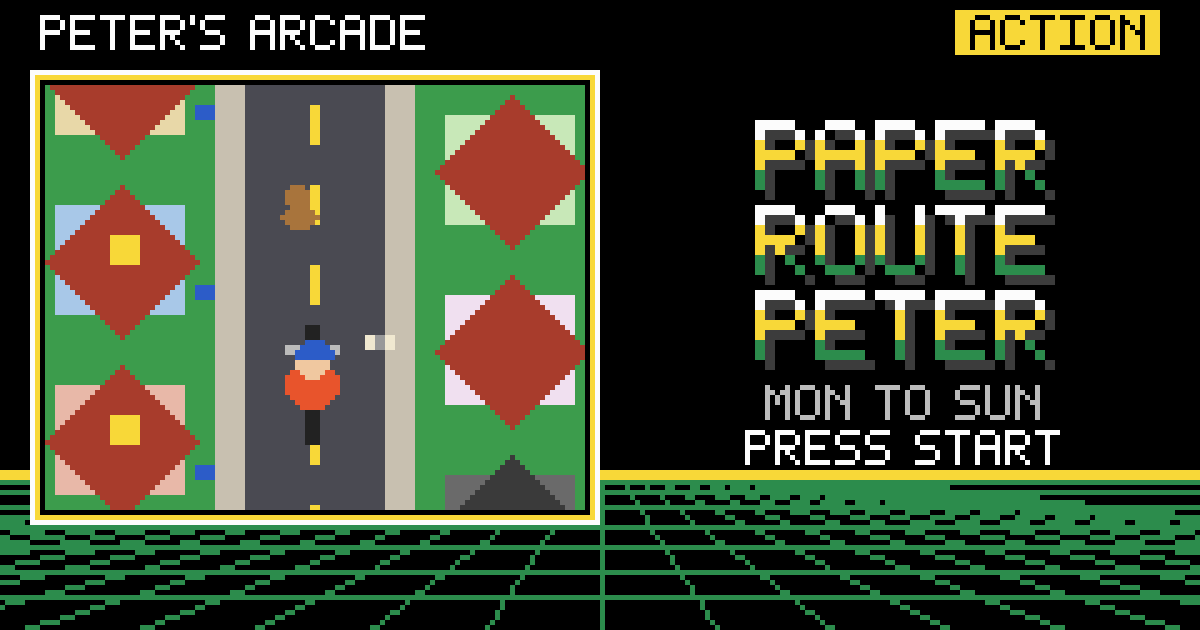
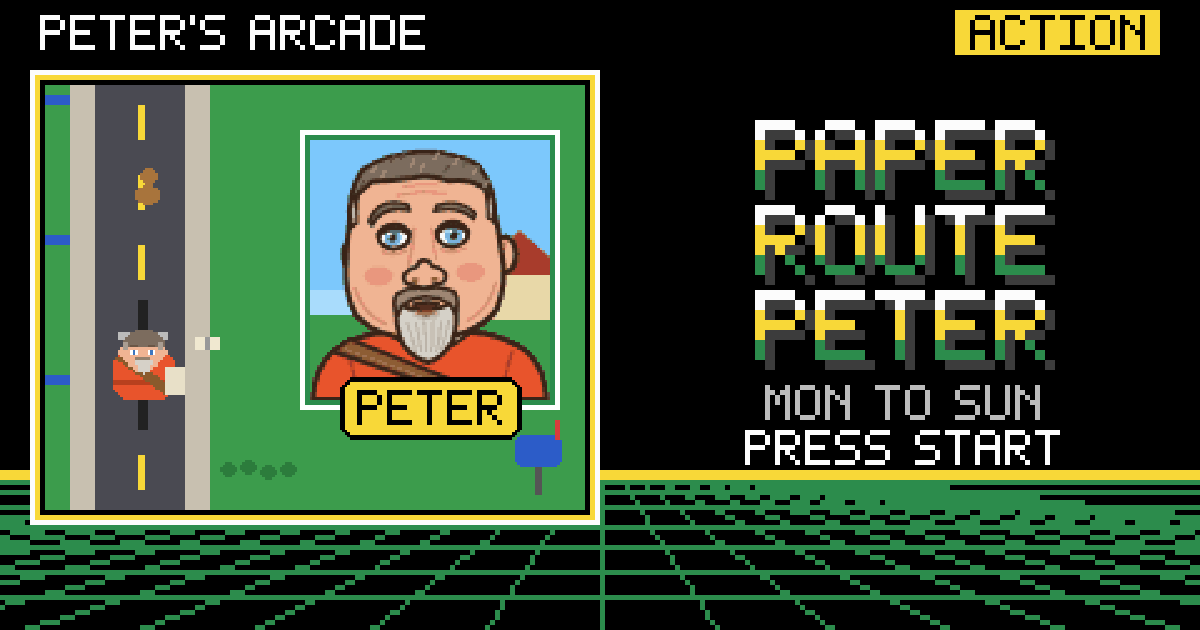
Peter likeness: hand-drawn cartoon Peter (grey-brown crew cut, raised brows, blue eyes, grey goatee) on the title portrait card, in-game rider sprite and cover/share art; SW v6

Changed region(s): [[0.0308, 0.1206, 0.4933, 0.8143]]

diff --git a/index.html b/index.html
@@ -97,10 +97,77 @@ function house(l){const y=sy(l.wy),side=l.side,xs=W/2+side*(RX()+SW()),far=side<
  if(l.sub&&!l.done){g.fillStyle='#f8d838';rr(hx+hw/2-14*S,y-12*S,28*S,24*S,5*S);g.fill();txt('★',hx+hw/2,y,16*S,'#a83c2c')}
  if(l.done)txt('✓',hx+hw/2,y,26*S,'#fff','#2c8c4c');if(l.miss)txt('✗',hx+hw/2,y,26*S,'#f86c6c','#000');
  const mx=W/2+side*(RX()+SW()+16*S),my=sy(l.wy-LOT*.3);g.fillStyle='#555';g.fillRect(mx-2*S,my,4*S,12*S);g.fillStyle=l.sub?(l.mbox?'#f8d838':'#2c5cc8'):'#444';rr(mx-9*S,my-10*S,18*S,12*S,4*S);g.fill();if(l.sub&&!l.mbox){g.fillStyle='#d83c3c';g.fillRect(mx+(side<0?7:-9)*S,my-16*S,2*S,8*S)}}
+// Peter bust portrait: hand-drawn vector cartoon (outlined), drawn from scratch with canvas paths.
+// (cx,by) = bottom centre of the bust, h = bust height. ctx passed explicitly.
+function drawPeterPortrait(x2,cx,by,h,t){t=t||0;const u=h/100,K='#3a2418';x2.save();x2.translate(cx,by);x2.scale(u,u);x2.lineJoin='round';x2.lineCap='round';
+ const P=(pts,fill,lw,close)=>{lw=lw===undefined?2.2:lw;x2.beginPath();x2.moveTo(pts[0][0],pts[0][1]);for(let i=1;i<pts.length;i++){const q=pts[i];if(q.length==6)x2.bezierCurveTo(q[0],q[1],q[2],q[3],q[4],q[5]);else if(q.length==4)x2.quadraticCurveTo(q[0],q[1],q[2],q[3]);else x2.lineTo(q[0],q[1])}if(close!==false)x2.closePath();if(fill){x2.fillStyle=fill;x2.fill()}if(lw){x2.strokeStyle=K;x2.lineWidth=lw;x2.stroke()}};
+ const E=(x,y,rx,ry,fill,lw,rot)=>{lw=lw===undefined?2.2:lw;x2.beginPath();x2.ellipse(x,y,rx,ry,rot||0,0,Math.PI*2);if(fill){x2.fillStyle=fill;x2.fill()}if(lw){x2.strokeStyle=K;x2.lineWidth=lw;x2.stroke()}};
+ const L=(pts,col,lw)=>{P(pts,null,0,false);x2.strokeStyle=col;x2.lineWidth=lw;x2.stroke()};
+ const SKIN='#f0b493',SK2='#d8916f',ROSE='rgba(222,104,92,.38)',HAIR='#7c6c5e',HAIR2='#a99d92',HAIR3='#5e5044',BR='#7a6450',BEARD='#d6d1c8',BEARD2='#b4ac9f',MUS='#93816e',SHIRT='#e8542c',SH2='#b8401e',STRAP='#8a5a2c';
+ const blink=((t*0.5)%4)>3.85;
+ // shoulders: orange paperboy shirt, white tee collar, newspaper-bag strap
+ P([[-48,0],[-48,-12,-40,-20],[-30,-27,-17,-28],[17,-28],[30,-27,40,-20],[48,-12,48,0]],SHIRT);
+ L([[-34,-20],[-30,-10,-31,0]],SH2,1.6);L([[34,-20],[30,-10,31,0]],SH2,1.6);
+ P([[-17,-28],[-9,-21,0,-20],[9,-21,17,-28],[11,-30],[0,-27],[-11,-30]],'#f4f0e6',1.8);
+ P([[-40,-20],[-33,-25],[30,0],[18,0]],STRAP,1.8);L([[-35,-21],[23,0]],'#b07a40',1);
+ // neck
+ P([[-15,-30],[-16,-40],[16,-40],[15,-30],[0,-25]],SK2,1.8);
+ // ears
+ for(const sx of[-1,1]){E(sx*31,-60,4.6,7.4,SKIN,2.2);L([[sx*31.5,-65],[sx*29,-60,sx*31,-55]],SK2,1.4)}
+ x2.save();x2.rotate(-0.04);
+ // head: broad forehead, wide cheeks and jowls
+ P([[0,-99],[-19,-99,-26,-88],[-31,-76,-32,-60],[-34,-46,-29,-36],[-20,-25,0,-25],[20,-25,29,-36],[34,-46,32,-60],[31,-76,26,-88],[19,-99,0,-99]],SKIN);
+ // jowl shading
+ L([[-29,-47],[-26,-36,-17,-32]],SK2,1.4);L([[29,-47],[26,-36,17,-32]],SK2,1.4);
+ // short grey-brown hair: crew cut, slightly receding at the temples, greyer at the sides
+ P([[-30,-72],[-31,-87,-24,-96],[-14,-102.5,0,-102.5],[14,-102.5,24,-96],[31,-87,30,-72],[28,-77],[26.5,-86],[20,-91,12,-90],[4,-93,-3,-92],[-12,-91,-20,-91],[-26.5,-86],[-28,-77]],HAIR,2);
+ for(const [x,y] of[[-20,-95],[-12,-99],[-4,-97],[6,-99.5],[14,-97],[22,-93],[-25,-89],[26,-87],[0,-95],[-16,-93],[10,-94],[-8,-100],[18,-96]])L([[x,y],[x+1.5,y-2.2]],(x*7+y)%3?HAIR2:HAIR3,1.2);
+ for(const sx of[-1,1])P([[sx*29,-73],[sx*30.5,-80,sx*28,-86],[sx*26.5,-80,sx*27,-74]],HAIR2,1.2);
+ 
+ // eyebrows: raised high and arched (his trademark surprised look)
+ P([[-22,-75],[-18,-85,-6,-81],[-5,-78.5],[-16,-81.5,-21,-73]],BR,1.4);
+ P([[22,-76],[16,-83,6,-80],[5,-77.8],[15,-80,21,-74]],BR,1.4);
+ // forehead lines
+ L([[-10,-85],[0,-87,10,-85]],SK2,1);L([[-7,-88.5],[0,-89.6,7,-88.5]],SK2,0.9);
+ // eyes: wide open, blue
+ for(const sx of[-1,1]){const ex=sx*12,ey=-68;
+  if(blink){L([[ex-6,ey],[ex,ey+1.6,ex+6,ey]],K,2)}
+  else{E(ex,ey,6.4,5,'#ffffff',2);E(ex+sx*0.6,ey+.3,3.4,3.6,'#4c86c8',0);E(ex+sx*0.6,ey+.3,1.6,1.8,'#1a1a2a',0);E(ex+sx*0.6-1.2,ey-1.2,1,1,'#ffffff',0);L([[ex-6.4,ey-1],[ex,ey-6.2,ex+6.4,ey-1]],K,2.2)}
+  L([[ex-5,ey+6],[ex,ey+8.4,ex+5,ey+6]],SK2,1.3)}
+ // nose: broad, rounded tip
+ L([[-3.5,-71],[-4.5,-62,-6.5,-56]],SK2,1.4);L([[3.5,-71],[4,-64,5,-58]],SK2,1);
+ P([[-8.5,-52],[-9.5,-47.5,-4.5,-47.5],[-2,-46,0,-46],[2,-46,4.5,-47.5],[9.5,-47.5,8.5,-52],[6,-55,3.5,-55],[2,-58,0,-58],[-2,-58,-3.5,-55],[-6,-55,-8.5,-52]],SKIN,1.8);
+ E(-4,-49.5,1.6,1,'#8a4a3a',0);E(4,-49.5,1.6,1,'#8a4a3a',0);
+ // rosy cheeks
+ x2.fillStyle=ROSE;x2.beginPath();x2.ellipse(-19,-52,6,4,0,0,Math.PI*2);x2.fill();x2.beginPath();x2.ellipse(19,-52,6,4,0,0,Math.PI*2);x2.fill();
+ // goatee: grey-white chin beard, long and full
+ P([[-12,-40],[-13.5,-31,-10,-23],[-5,-16.5,0,-15.5],[5,-16.5,10,-23],[13.5,-31,12,-40],[6,-37,0,-37],[-6,-37,-12,-40]],BEARD,2);E(0,-35.5,5.5,2.2,'#b8afa2',0);
+ for(const x of[-8,-4.5,-1,2.5,6,9])L([[x,-32],[x*.85+.4,-26,x*.6,-20]],BEARD2,.9);
+ // moustache: brown-grey, around the mouth into the goatee
+ P([[-1,-46],[-7,-47,-12,-44],[-14,-40,-12,-35],[-10,-39],[-6,-42,0,-42.5],[6,-42,10,-39],[12,-35],[14,-40,12,-44],[7,-47,1,-46]],MUS,1.6);
+ // mouth: slightly open, mid-sentence
+ P([[-5,-39.5],[0,-41,5,-39.5],[3,-35.5,0,-35.2],[-3,-35.5,-5,-39.5]],'#6a2a22',1.4);
+ L([[-3.5,-36.2],[0,-35,3.5,-36.2]],'#c86a5e',1.4);
+ x2.restore();x2.restore()}
+const PPC=document.createElement('canvas');PPC.width=84;PPC.height=84;
+function portraitCard(cx,top,sz){const x=PPC.getContext('2d');x.clearRect(0,0,84,84);x.fillStyle='#7cc8fc';x.fillRect(0,0,84,84);x.fillStyle='#a8dcfc';x.fillRect(0,50,84,8);x.fillStyle='#3c9c4c';x.fillRect(0,58,84,26);x.fillStyle='#a83c2c';x.beginPath();x.moveTo(58,44);x.lineTo(74,30);x.lineTo(90,44);x.fill();x.fillStyle='#e8d8a8';x.fillRect(61,44,26,16);
+ drawPeterPortrait(x,42,84,78,t/60);
+ const l=cx-sz/2;g.fillStyle='#fff';g.fillRect(l-5*S,top-5*S,sz+10*S,sz+10*S);g.fillStyle='#2c8c4c';g.fillRect(l-2*S,top-2*S,sz+4*S,sz+4*S);g.save();g.imageSmoothingEnabled=false;g.drawImage(PPC,l,top,sz,sz);g.restore();
+ g.fillStyle='#f8d838';rr(cx-34*S,top+sz-6*S,68*S,20*S,6*S);g.fill();g.strokeStyle='#000';g.lineWidth=2*S;g.stroke();txt('PETER',cx,top+sz+4*S,14*S,'#000')}
 function peter(){const y=H*PY;g.save();g.translate(px,y);if(crashT>0)g.rotate(Math.sin(crashT*.5)*1.2);if(inv>0&&t%8<4){g.globalAlpha=.4}
  g.fillStyle='#222';rr(-3*S,-26*S,6*S,18*S,3*S);g.fill();rr(-3*S,10*S,6*S,18*S,3*S);g.fill();g.fillStyle='#bbb';g.fillRect(-1*S,-12*S,2*S,26*S);g.fillRect(-12*S,-14*S,24*S,3*S);
- g.fillStyle='#e8542c';rr(-10*S,-6*S,20*S,18*S,6*S);g.fill();g.fillStyle='#f0c8a0';g.beginPath();g.arc(0,-4*S,7*S,0,TAU);g.fill();g.fillStyle='#2c5cc8';g.beginPath();g.arc(0,-6*S,7*S,Math.PI,TAU);g.fill();g.fillRect(-2*S,-16*S,4*S,4*S);
- g.fillStyle='#e8e0c8';g.fillRect(8*S,0,9*S,12*S);g.strokeStyle='#888';g.lineWidth=1*S;g.strokeRect(8*S,0,9*S,12*S);g.restore()}
+ // Peter: broad shoulders in his orange paper-route shirt, bag strap
+ g.fillStyle='#e8542c';rr(-12*S,-6*S,24*S,19*S,7*S);g.fill();g.fillStyle='#b8401e';g.fillRect(-12*S,6*S,24*S,2*S);g.fillStyle='#8a5a2c';g.beginPath();g.moveTo(-11*S,-3*S);g.lineTo(-7*S,-5*S);g.lineTo(11*S,9*S);g.lineTo(8*S,11*S);g.closePath();g.fill();
+ // head: round face, short grey-brown crew cut (no cap), raised brows, blue eyes, grey goatee
+ g.fillStyle='#d8916f';g.fillRect(-4*S,-1*S,8*S,3*S);
+ g.fillStyle='#f0b493';g.beginPath();g.ellipse(0,-5*S,8*S,7.6*S,0,0,TAU);g.fill();
+ g.fillStyle='#f0b493';g.beginPath();g.arc(-8*S,-5*S,1.8*S,0,TAU);g.arc(8*S,-5*S,1.8*S,0,TAU);g.fill();
+ g.fillStyle='#7c6c5e';g.beginPath();g.ellipse(0,-8.6*S,8*S,4.6*S,0,Math.PI,TAU);g.lineTo(8*S,-7.6*S);g.lineTo(-8*S,-7.6*S);g.closePath();g.fill();g.fillStyle='#a99d92';g.fillRect(-7.6*S,-9.6*S,2*S,2.6*S);g.fillRect(5.6*S,-9.6*S,2*S,2.6*S);g.fillRect(-2*S,-12*S,1.2*S,1.2*S);g.fillRect(2*S,-11*S,1.2*S,1.2*S);
+ g.fillStyle='#6a5646';g.fillRect(-5*S,-7.4*S,3.2*S,1*S);g.fillRect(1.8*S,-7.2*S,3.2*S,1*S);
+ g.fillStyle='#fff';g.fillRect(-4.6*S,-6*S,2.6*S,2*S);g.fillRect(2*S,-6*S,2.6*S,2*S);g.fillStyle='#3c76c0';g.fillRect(-3.8*S,-6*S,1.4*S,2*S);g.fillRect(2.6*S,-6*S,1.4*S,2*S);
+ g.fillStyle='rgba(222,104,92,.45)';g.fillRect(-6.4*S,-3.4*S,2.2*S,1.4*S);g.fillRect(4.2*S,-3.4*S,2.2*S,1.4*S);
+ g.fillStyle='#93816e';g.fillRect(-3*S,-2.4*S,6*S,1.2*S);g.fillStyle='#d6d1c8';g.beginPath();g.moveTo(-3*S,-1.4*S);g.lineTo(3*S,-1.4*S);g.lineTo(2*S,2.4*S);g.lineTo(0,3.4*S);g.lineTo(-2*S,2.4*S);g.closePath();g.fill();g.fillStyle='#6a2a22';g.fillRect(-1*S,-1.4*S,2*S,1*S);
+ g.fillStyle='#e8e0c8';g.fillRect(9*S,1*S,9*S,12*S);g.strokeStyle='#888';g.lineWidth=1*S;g.strokeRect(9*S,1*S,9*S,12*S);g.restore()}
 function obstacle(o){const x=W/2+o.x*S,y=sy(o.wy);if(y<-80*S||y>H+80*S)return;g.save();g.translate(x,y);
  if(o.k=='car'){g.fillStyle=o.col;rr(-17*S,-31*S,34*S,62*S,8*S);g.fill();g.fillStyle='#9cd8f8';rr(-13*S,-18*S,26*S,12*S,3*S);g.fill();rr(-13*S,12*S,26*S,8*S,3*S);g.fill();g.fillStyle='rgba(0,0,0,.25)';g.fillRect(-13*S,-5*S,26*S,16*S)}
  else if(o.k=='cone'){g.fillStyle='#f8842c';g.beginPath();g.moveTo(0,-10*S);g.lineTo(9*S,8*S);g.lineTo(-9*S,8*S);g.fill();g.fillStyle='#fff';g.fillRect(-5*S,-1*S,10*S,3*S)}
@@ -115,7 +182,7 @@ function draw(){g.fillStyle='#3c9c4c';g.fillRect(0,0,W,H);
  g.fillStyle='#4a4a52';g.fillRect(W/2-RX(),0,RX()*2,H);g.fillStyle='#f8d838';for(let k=Math.floor(dist/60)-2;k<dist/60+H/(60*S)+2;k++){g.fillRect(W/2-2*S,sy(k*60),4*S,26*S)}
  if(state=='title'&&lots.length==0){for(let i=0;i<NL*2;i++)lots.push({side:i%2?1:-1,wy:200+(i>>1)*LOT+(i%2?LOT/2:0),sub:R()<.7,col:HCOL[i%6]})}
  if(state=='title'){if(dist>NL*LOT-600)dist=0;panel(H*.1,280*S,'#2c8c4c');txt('PAPER ROUTE',W/2,H*.1+48*S,38*S,'#f8d838','#000');txt('PETER',W/2,H*.1+96*S,46*S,'#fff','#000');
-  ['Drag to steer · tap a side to toss','Hit ★ houses — mailbox = bonus','Miss a subscriber and they cancel!','Dodge cars, dogs & skaters'].forEach((s,i)=>txt(s,W/2,H*.1+(140+i*24)*S,14*S,'#fff'));txt(`BEST ${best}`,W/2,H*.1+252*S,15*S,'#f8d838');px=W/2+Math.sin(t*.02)*40*S;peter();if(t%60<40)txt('TAP TO START',W/2,H*.86,24*S,'#fff','#000');return}
+  ['Drag to steer · tap a side to toss','Hit ★ houses — mailbox = bonus','Miss a subscriber and they cancel!','Dodge cars, dogs & skaters'].forEach((s,i)=>txt(s,W/2,H*.1+(140+i*24)*S,14*S,'#fff'));txt(`BEST ${best}`,W/2,H*.1+252*S,15*S,'#f8d838');portraitCard(W/2,H*.1+292*S,104*S);px=W/2+Math.sin(t*.02)*40*S;peter();if(t%60<40)txt('TAP TO START',W/2,H*.86,24*S,'#fff','#000');return}
  for(const it of items){if(it.got)continue;const x=W/2+it.x*S,y=sy(it.wy);g.fillStyle='#e8e0c8';rr(x-14*S,y-10*S,28*S,20*S,3*S);g.fill();g.strokeStyle='#d83c3c';g.lineWidth=3*S;g.beginPath();g.moveTo(x,y-10*S);g.lineTo(x,y+10*S);g.stroke();txt('10',x,y,10*S,'#222')}
  for(const o of obs)obstacle(o);
  const end=sy(routeLen);if(end>-40*S){g.fillStyle='#fff';for(let i=0;i<10;i++){g.fillStyle=i%2?'#000':'#fff';g.fillRect(W/2-RX()+i*RX()/5,end,RX()/5,14*S)}}

diff --git a/game.js b/game.js
@@ -52,10 +52,77 @@ function house(l){const y=sy(l.wy),side=l.side,xs=W/2+side*(RX()+SW()),far=side<
  if(l.sub&&!l.done){g.fillStyle='#f8d838';rr(hx+hw/2-14*S,y-12*S,28*S,24*S,5*S);g.fill();txt('★',hx+hw/2,y,16*S,'#a83c2c')}
  if(l.done)txt('✓',hx+hw/2,y,26*S,'#fff','#2c8c4c');if(l.miss)txt('✗',hx+hw/2,y,26*S,'#f86c6c','#000');
  const mx=W/2+side*(RX()+SW()+16*S),my=sy(l.wy-LOT*.3);g.fillStyle='#555';g.fillRect(mx-2*S,my,4*S,12*S);g.fillStyle=l.sub?(l.mbox?'#f8d838':'#2c5cc8'):'#444';rr(mx-9*S,my-10*S,18*S,12*S,4*S);g.fill();if(l.sub&&!l.mbox){g.fillStyle='#d83c3c';g.fillRect(mx+(side<0?7:-9)*S,my-16*S,2*S,8*S)}}
+// Peter bust portrait: hand-drawn vector cartoon (outlined), drawn from scratch with canvas paths.
+// (cx,by) = bottom centre of the bust, h = bust height. ctx passed explicitly.
+function drawPeterPortrait(x2,cx,by,h,t){t=t||0;const u=h/100,K='#3a2418';x2.save();x2.translate(cx,by);x2.scale(u,u);x2.lineJoin='round';x2.lineCap='round';
+ const P=(pts,fill,lw,close)=>{lw=lw===undefined?2.2:lw;x2.beginPath();x2.moveTo(pts[0][0],pts[0][1]);for(let i=1;i<pts.length;i++){const q=pts[i];if(q.length==6)x2.bezierCurveTo(q[0],q[1],q[2],q[3],q[4],q[5]);else if(q.length==4)x2.quadraticCurveTo(q[0],q[1],q[2],q[3]);else x2.lineTo(q[0],q[1])}if(close!==false)x2.closePath();if(fill){x2.fillStyle=fill;x2.fill()}if(lw){x2.strokeStyle=K;x2.lineWidth=lw;x2.stroke()}};
+ const E=(x,y,rx,ry,fill,lw,rot)=>{lw=lw===undefined?2.2:lw;x2.beginPath();x2.ellipse(x,y,rx,ry,rot||0,0,Math.PI*2);if(fill){x2.fillStyle=fill;x2.fill()}if(lw){x2.strokeStyle=K;x2.lineWidth=lw;x2.stroke()}};
+ const L=(pts,col,lw)=>{P(pts,null,0,false);x2.strokeStyle=col;x2.lineWidth=lw;x2.stroke()};
+ const SKIN='#f0b493',SK2='#d8916f',ROSE='rgba(222,104,92,.38)',HAIR='#7c6c5e',HAIR2='#a99d92',HAIR3='#5e5044',BR='#7a6450',BEARD='#d6d1c8',BEARD2='#b4ac9f',MUS='#93816e',SHIRT='#e8542c',SH2='#b8401e',STRAP='#8a5a2c';
+ const blink=((t*0.5)%4)>3.85;
+ // shoulders: orange paperboy shirt, white tee collar, newspaper-bag strap
+ P([[-48,0],[-48,-12,-40,-20],[-30,-27,-17,-28],[17,-28],[30,-27,40,-20],[48,-12,48,0]],SHIRT);
+ L([[-34,-20],[-30,-10,-31,0]],SH2,1.6);L([[34,-20],[30,-10,31,0]],SH2,1.6);
+ P([[-17,-28],[-9,-21,0,-20],[9,-21,17,-28],[11,-30],[0,-27],[-11,-30]],'#f4f0e6',1.8);
+ P([[-40,-20],[-33,-25],[30,0],[18,0]],STRAP,1.8);L([[-35,-21],[23,0]],'#b07a40',1);
+ // neck
+ P([[-15,-30],[-16,-40],[16,-40],[15,-30],[0,-25]],SK2,1.8);
+ // ears
+ for(const sx of[-1,1]){E(sx*31,-60,4.6,7.4,SKIN,2.2);L([[sx*31.5,-65],[sx*29,-60,sx*31,-55]],SK2,1.4)}
+ x2.save();x2.rotate(-0.04);
+ // head: broad forehead, wide cheeks and jowls
+ P([[0,-99],[-19,-99,-26,-88],[-31,-76,-32,-60],[-34,-46,-29,-36],[-20,-25,0,-25],[20,-25,29,-36],[34,-46,32,-60],[31,-76,26,-88],[19,-99,0,-99]],SKIN);
+ // jowl shading
+ L([[-29,-47],[-26,-36,-17,-32]],SK2,1.4);L([[29,-47],[26,-36,17,-32]],SK2,1.4);
+ // short grey-brown hair: crew cut, slightly receding at the temples, greyer at the sides
+ P([[-30,-72],[-31,-87,-24,-96],[-14,-102.5,0,-102.5],[14,-102.5,24,-96],[31,-87,30,-72],[28,-77],[26.5,-86],[20,-91,12,-90],[4,-93,-3,-92],[-12,-91,-20,-91],[-26.5,-86],[-28,-77]],HAIR,2);
+ for(const [x,y] of[[-20,-95],[-12,-99],[-4,-97],[6,-99.5],[14,-97],[22,-93],[-25,-89],[26,-87],[0,-95],[-16,-93],[10,-94],[-8,-100],[18,-96]])L([[x,y],[x+1.5,y-2.2]],(x*7+y)%3?HAIR2:HAIR3,1.2);
+ for(const sx of[-1,1])P([[sx*29,-73],[sx*30.5,-80,sx*28,-86],[sx*26.5,-80,sx*27,-74]],HAIR2,1.2);
+ 
+ // eyebrows: raised high and arched (his trademark surprised look)
+ P([[-22,-75],[-18,-85,-6,-81],[-5,-78.5],[-16,-81.5,-21,-73]],BR,1.4);
+ P([[22,-76],[16,-83,6,-80],[5,-77.8],[15,-80,21,-74]],BR,1.4);
+ // forehead lines
+ L([[-10,-85],[0,-87,10,-85]],SK2,1);L([[-7,-88.5],[0,-89.6,7,-88.5]],SK2,0.9);
+ // eyes: wide open, blue
+ for(const sx of[-1,1]){const ex=sx*12,ey=-68;
+  if(blink){L([[ex-6,ey],[ex,ey+1.6,ex+6,ey]],K,2)}
+  else{E(ex,ey,6.4,5,'#ffffff',2);E(ex+sx*0.6,ey+.3,3.4,3.6,'#4c86c8',0);E(ex+sx*0.6,ey+.3,1.6,1.8,'#1a1a2a',0);E(ex+sx*0.6-1.2,ey-1.2,1,1,'#ffffff',0);L([[ex-6.4,ey-1],[ex,ey-6.2,ex+6.4,ey-1]],K,2.2)}
+  L([[ex-5,ey+6],[ex,ey+8.4,ex+5,ey+6]],SK2,1.3)}
+ // nose: broad, rounded tip
+ L([[-3.5,-71],[-4.5,-62,-6.5,-56]],SK2,1.4);L([[3.5,-71],[4,-64,5,-58]],SK2,1);
+ P([[-8.5,-52],[-9.5,-47.5,-4.5,-47.5],[-2,-46,0,-46],[2,-46,4.5,-47.5],[9.5,-47.5,8.5,-52],[6,-55,3.5,-55],[2,-58,0,-58],[-2,-58,-3.5,-55],[-6,-55,-8.5,-52]],SKIN,1.8);
+ E(-4,-49.5,1.6,1,'#8a4a3a',0);E(4,-49.5,1.6,1,'#8a4a3a',0);
+ // rosy cheeks
+ x2.fillStyle=ROSE;x2.beginPath();x2.ellipse(-19,-52,6,4,0,0,Math.PI*2);x2.fill();x2.beginPath();x2.ellipse(19,-52,6,4,0,0,Math.PI*2);x2.fill();
+ // goatee: grey-white chin beard, long and full
+ P([[-12,-40],[-13.5,-31,-10,-23],[-5,-16.5,0,-15.5],[5,-16.5,10,-23],[13.5,-31,12,-40],[6,-37,0,-37],[-6,-37,-12,-40]],BEARD,2);E(0,-35.5,5.5,2.2,'#b8afa2',0);
+ for(const x of[-8,-4.5,-1,2.5,6,9])L([[x,-32],[x*.85+.4,-26,x*.6,-20]],BEARD2,.9);
+ // moustache: brown-grey, around the mouth into the goatee
+ P([[-1,-46],[-7,-47,-12,-44],[-14,-40,-12,-35],[-10,-39],[-6,-42,0,-42.5],[6,-42,10,-39],[12,-35],[14,-40,12,-44],[7,-47,1,-46]],MUS,1.6);
+ // mouth: slightly open, mid-sentence
+ P([[-5,-39.5],[0,-41,5,-39.5],[3,-35.5,0,-35.2],[-3,-35.5,-5,-39.5]],'#6a2a22',1.4);
+ L([[-3.5,-36.2],[0,-35,3.5,-36.2]],'#c86a5e',1.4);
+ x2.restore();x2.restore()}
+const PPC=document.createElement('canvas');PPC.width=84;PPC.height=84;
+function portraitCard(cx,top,sz){const x=PPC.getContext('2d');x.clearRect(0,0,84,84);x.fillStyle='#7cc8fc';x.fillRect(0,0,84,84);x.fillStyle='#a8dcfc';x.fillRect(0,50,84,8);x.fillStyle='#3c9c4c';x.fillRect(0,58,84,26);x.fillStyle='#a83c2c';x.beginPath();x.moveTo(58,44);x.lineTo(74,30);x.lineTo(90,44);x.fill();x.fillStyle='#e8d8a8';x.fillRect(61,44,26,16);
+ drawPeterPortrait(x,42,84,78,t/60);
+ const l=cx-sz/2;g.fillStyle='#fff';g.fillRect(l-5*S,top-5*S,sz+10*S,sz+10*S);g.fillStyle='#2c8c4c';g.fillRect(l-2*S,top-2*S,sz+4*S,sz+4*S);g.save();g.imageSmoothingEnabled=false;g.drawImage(PPC,l,top,sz,sz);g.restore();
+ g.fillStyle='#f8d838';rr(cx-34*S,top+sz-6*S,68*S,20*S,6*S);g.fill();g.strokeStyle='#000';g.lineWidth=2*S;g.stroke();txt('PETER',cx,top+sz+4*S,14*S,'#000')}
 function peter(){const y=H*PY;g.save();g.translate(px,y);if(crashT>0)g.rotate(Math.sin(crashT*.5)*1.2);if(inv>0&&t%8<4){g.globalAlpha=.4}
  g.fillStyle='#222';rr(-3*S,-26*S,6*S,18*S,3*S);g.fill();rr(-3*S,10*S,6*S,18*S,3*S);g.fill();g.fillStyle='#bbb';g.fillRect(-1*S,-12*S,2*S,26*S);g.fillRect(-12*S,-14*S,24*S,3*S);
- g.fillStyle='#e8542c';rr(-10*S,-6*S,20*S,18*S,6*S);g.fill();g.fillStyle='#f0c8a0';g.beginPath();g.arc(0,-4*S,7*S,0,TAU);g.fill();g.fillStyle='#2c5cc8';g.beginPath();g.arc(0,-6*S,7*S,Math.PI,TAU);g.fill();g.fillRect(-2*S,-16*S,4*S,4*S);
- g.fillStyle='#e8e0c8';g.fillRect(8*S,0,9*S,12*S);g.strokeStyle='#888';g.lineWidth=1*S;g.strokeRect(8*S,0,9*S,12*S);g.restore()}
+ // Peter: broad shoulders in his orange paper-route shirt, bag strap
+ g.fillStyle='#e8542c';rr(-12*S,-6*S,24*S,19*S,7*S);g.fill();g.fillStyle='#b8401e';g.fillRect(-12*S,6*S,24*S,2*S);g.fillStyle='#8a5a2c';g.beginPath();g.moveTo(-11*S,-3*S);g.lineTo(-7*S,-5*S);g.lineTo(11*S,9*S);g.lineTo(8*S,11*S);g.closePath();g.fill();
+ // head: round face, short grey-brown crew cut (no cap), raised brows, blue eyes, grey goatee
+ g.fillStyle='#d8916f';g.fillRect(-4*S,-1*S,8*S,3*S);
+ g.fillStyle='#f0b493';g.beginPath();g.ellipse(0,-5*S,8*S,7.6*S,0,0,TAU);g.fill();
+ g.fillStyle='#f0b493';g.beginPath();g.arc(-8*S,-5*S,1.8*S,0,TAU);g.arc(8*S,-5*S,1.8*S,0,TAU);g.fill();
+ g.fillStyle='#7c6c5e';g.beginPath();g.ellipse(0,-8.6*S,8*S,4.6*S,0,Math.PI,TAU);g.lineTo(8*S,-7.6*S);g.lineTo(-8*S,-7.6*S);g.closePath();g.fill();g.fillStyle='#a99d92';g.fillRect(-7.6*S,-9.6*S,2*S,2.6*S);g.fillRect(5.6*S,-9.6*S,2*S,2.6*S);g.fillRect(-2*S,-12*S,1.2*S,1.2*S);g.fillRect(2*S,-11*S,1.2*S,1.2*S);
+ g.fillStyle='#6a5646';g.fillRect(-5*S,-7.4*S,3.2*S,1*S);g.fillRect(1.8*S,-7.2*S,3.2*S,1*S);
+ g.fillStyle='#fff';g.fillRect(-4.6*S,-6*S,2.6*S,2*S);g.fillRect(2*S,-6*S,2.6*S,2*S);g.fillStyle='#3c76c0';g.fillRect(-3.8*S,-6*S,1.4*S,2*S);g.fillRect(2.6*S,-6*S,1.4*S,2*S);
+ g.fillStyle='rgba(222,104,92,.45)';g.fillRect(-6.4*S,-3.4*S,2.2*S,1.4*S);g.fillRect(4.2*S,-3.4*S,2.2*S,1.4*S);
+ g.fillStyle='#93816e';g.fillRect(-3*S,-2.4*S,6*S,1.2*S);g.fillStyle='#d6d1c8';g.beginPath();g.moveTo(-3*S,-1.4*S);g.lineTo(3*S,-1.4*S);g.lineTo(2*S,2.4*S);g.lineTo(0,3.4*S);g.lineTo(-2*S,2.4*S);g.closePath();g.fill();g.fillStyle='#6a2a22';g.fillRect(-1*S,-1.4*S,2*S,1*S);
+ g.fillStyle='#e8e0c8';g.fillRect(9*S,1*S,9*S,12*S);g.strokeStyle='#888';g.lineWidth=1*S;g.strokeRect(9*S,1*S,9*S,12*S);g.restore()}
 function obstacle(o){const x=W/2+o.x*S,y=sy(o.wy);if(y<-80*S||y>H+80*S)return;g.save();g.translate(x,y);
  if(o.k=='car'){g.fillStyle=o.col;rr(-17*S,-31*S,34*S,62*S,8*S);g.fill();g.fillStyle='#9cd8f8';rr(-13*S,-18*S,26*S,12*S,3*S);g.fill();rr(-13*S,12*S,26*S,8*S,3*S);g.fill();g.fillStyle='rgba(0,0,0,.25)';g.fillRect(-13*S,-5*S,26*S,16*S)}
  else if(o.k=='cone'){g.fillStyle='#f8842c';g.beginPath();g.moveTo(0,-10*S);g.lineTo(9*S,8*S);g.lineTo(-9*S,8*S);g.fill();g.fillStyle='#fff';g.fillRect(-5*S,-1*S,10*S,3*S)}
@@ -70,7 +137,7 @@ function draw(){g.fillStyle='#3c9c4c';g.fillRect(0,0,W,H);
  g.fillStyle='#4a4a52';g.fillRect(W/2-RX(),0,RX()*2,H);g.fillStyle='#f8d838';for(let k=Math.floor(dist/60)-2;k<dist/60+H/(60*S)+2;k++){g.fillRect(W/2-2*S,sy(k*60),4*S,26*S)}
  if(state=='title'&&lots.length==0){for(let i=0;i<NL*2;i++)lots.push({side:i%2?1:-1,wy:200+(i>>1)*LOT+(i%2?LOT/2:0),sub:R()<.7,col:HCOL[i%6]})}
  if(state=='title'){if(dist>NL*LOT-600)dist=0;panel(H*.1,280*S,'#2c8c4c');txt('PAPER ROUTE',W/2,H*.1+48*S,38*S,'#f8d838','#000');txt('PETER',W/2,H*.1+96*S,46*S,'#fff','#000');
-  ['Drag to steer · tap a side to toss','Hit ★ houses — mailbox = bonus','Miss a subscriber and they cancel!','Dodge cars, dogs & skaters'].forEach((s,i)=>txt(s,W/2,H*.1+(140+i*24)*S,14*S,'#fff'));txt(`BEST ${best}`,W/2,H*.1+252*S,15*S,'#f8d838');px=W/2+Math.sin(t*.02)*40*S;peter();if(t%60<40)txt('TAP TO START',W/2,H*.86,24*S,'#fff','#000');return}
+  ['Drag to steer · tap a side to toss','Hit ★ houses — mailbox = bonus','Miss a subscriber and they cancel!','Dodge cars, dogs & skaters'].forEach((s,i)=>txt(s,W/2,H*.1+(140+i*24)*S,14*S,'#fff'));txt(`BEST ${best}`,W/2,H*.1+252*S,15*S,'#f8d838');portraitCard(W/2,H*.1+292*S,104*S);px=W/2+Math.sin(t*.02)*40*S;peter();if(t%60<40)txt('TAP TO START',W/2,H*.86,24*S,'#fff','#000');return}
  for(const it of items){if(it.got)continue;const x=W/2+it.x*S,y=sy(it.wy);g.fillStyle='#e8e0c8';rr(x-14*S,y-10*S,28*S,20*S,3*S);g.fill();g.strokeStyle='#d83c3c';g.lineWidth=3*S;g.beginPath();g.moveTo(x,y-10*S);g.lineTo(x,y+10*S);g.stroke();txt('10',x,y,10*S,'#222')}
  for(const o of obs)obstacle(o);
  const end=sy(routeLen);if(end>-40*S){g.fillStyle='#fff';for(let i=0;i<10;i++){g.fillStyle=i%2?'#000':'#fff';g.fillRect(W/2-RX()+i*RX()/5,end,RX()/5,14*S)}}

diff --git a/sw.js b/sw.js
@@ -1,4 +1,4 @@
-const P='paper-route-peter-',V=P+'v5',OLD=['prp-v'],FILES=['./','index.html','manifest.json','icon-192.png','icon-512.png'];
+const P='paper-route-peter-',V=P+'v6',OLD=['prp-v'],FILES=['./','index.html','manifest.json','icon-192.png','icon-512.png'];
 self.addEventListener('install',e=>{e.waitUntil(caches.open(V).then(c=>c.addAll(FILES)));self.skipWaiting()});
 self.addEventListener('activate',e=>{e.waitUntil(caches.keys().then(k=>Promise.all(k.filter(n=>n!=V&&(n.startsWith(P)||OLD.some(o=>n.startsWith(o)))).map(n=>caches.delete(n)))).then(()=>self.clients.claim()))});
 self.addEventListener('fetch',e=>{if(e.request.method!='GET')return;e.respondWith(fetch(e.request).then(r=>{if(r.ok){const cp=r.clone();caches.open(V).then(c=>c.put(e.request,cp))}return r}).catch(()=>caches.open(V).then(c=>c.match(e.request,{ignoreSearch:true}).then(r=>r||(e.request.mode=='navigate'?c.match('./'):undefined)))))});
